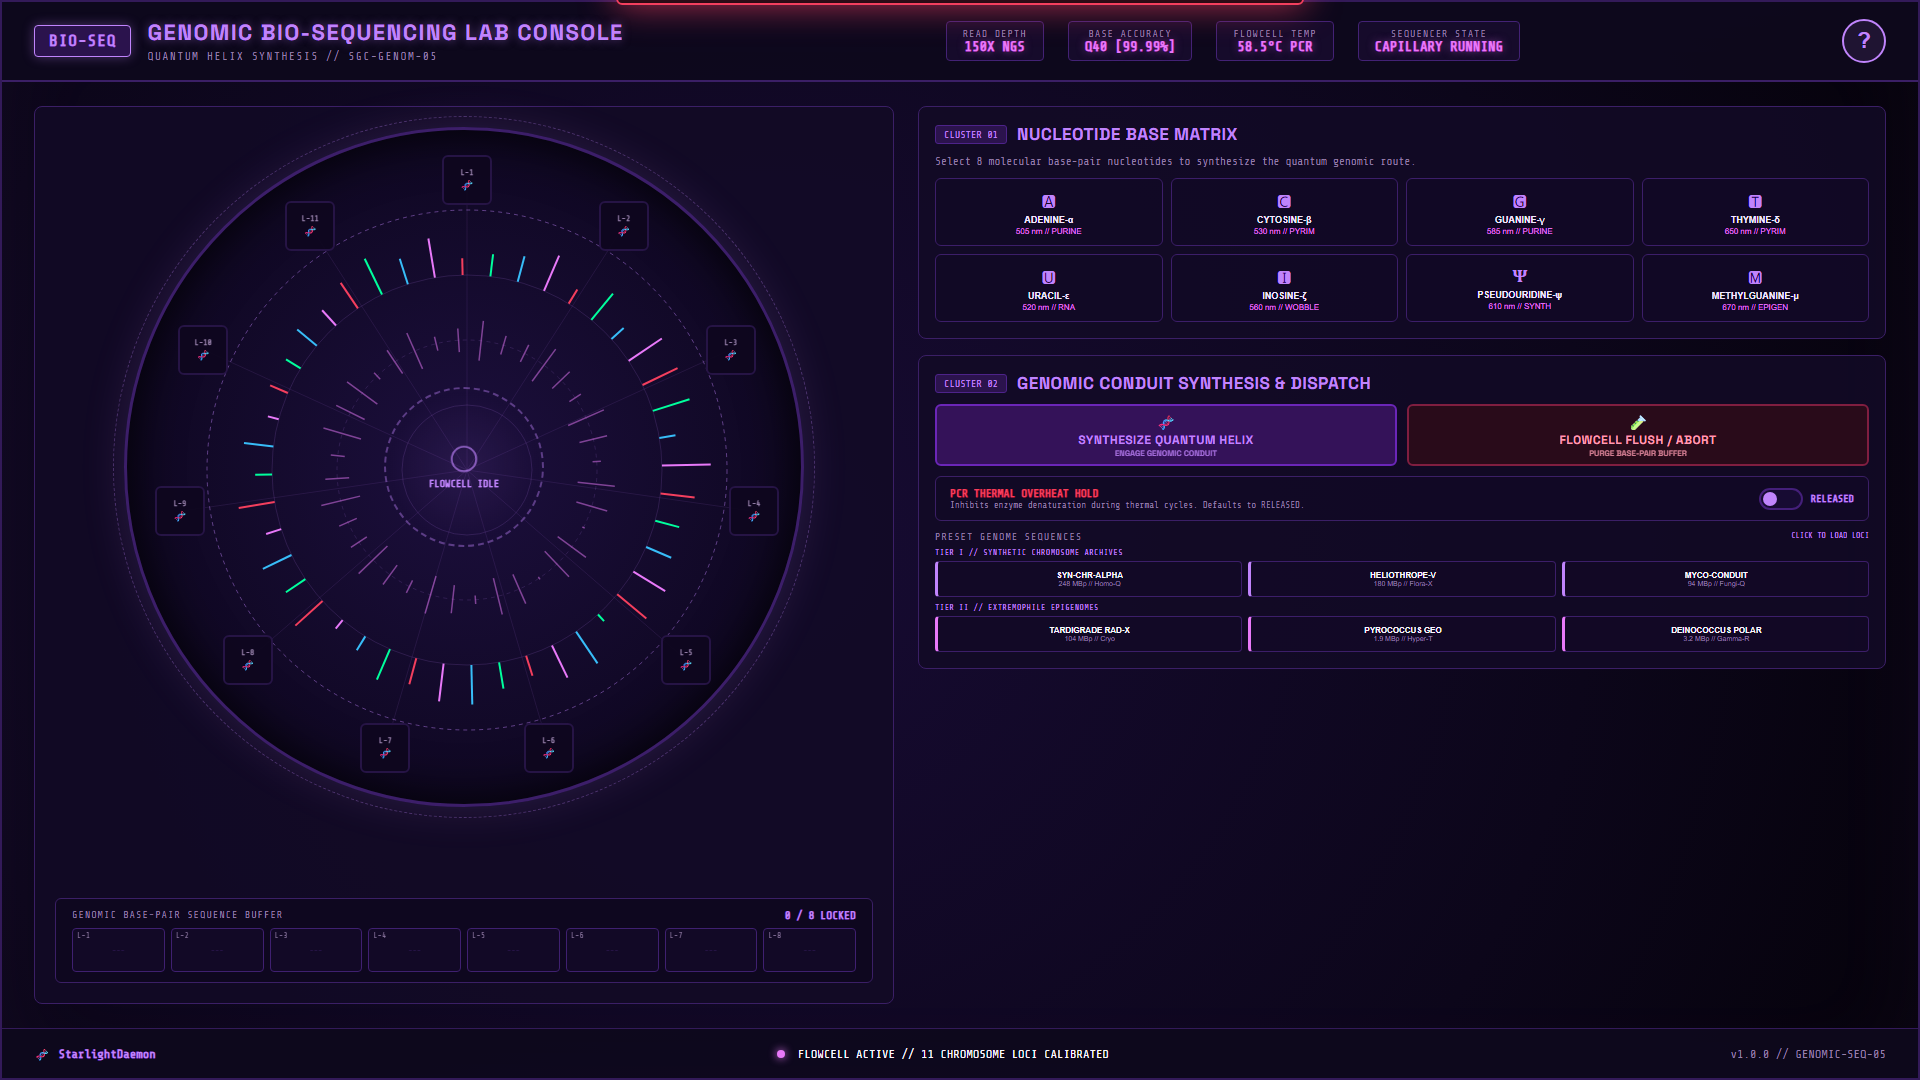
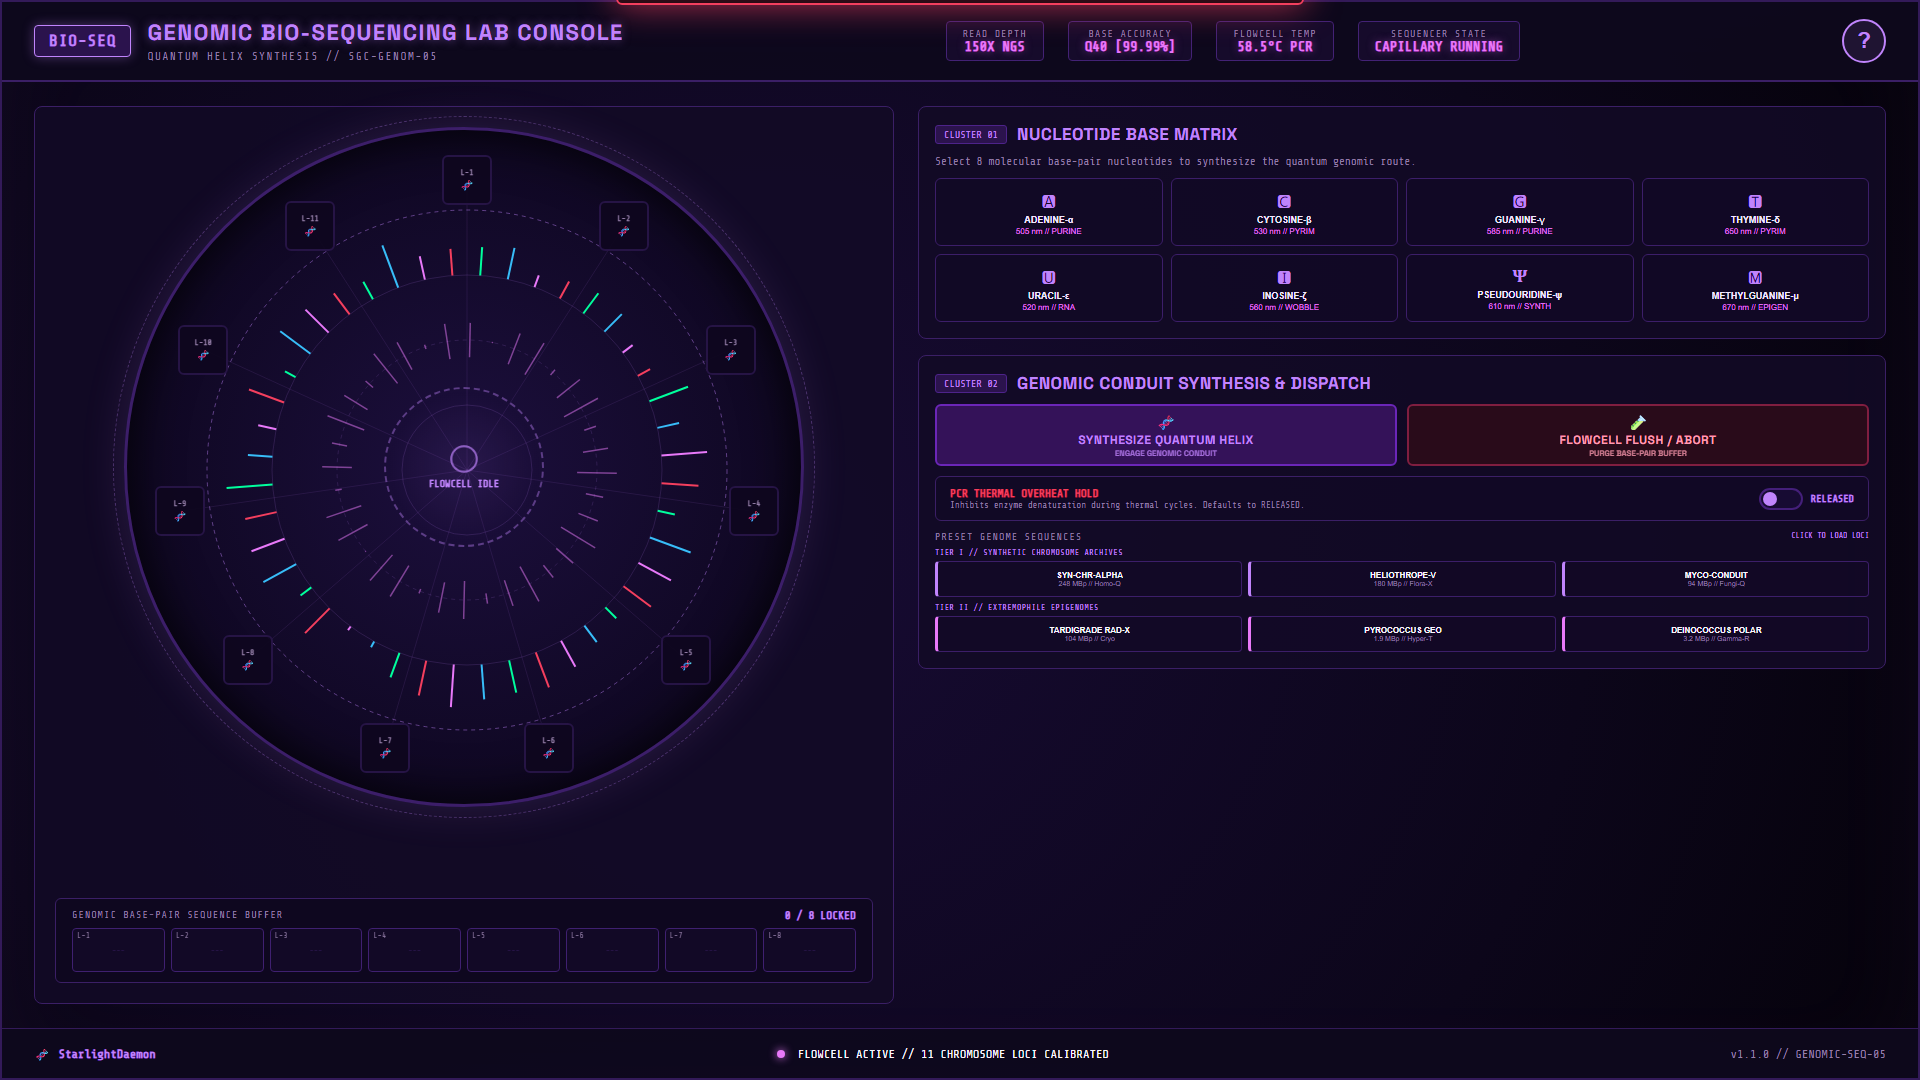
fix(stargate_genomic_sequencer): stage preset quick-dial through per-locus hybridization locks (v1.1.0)
loadPreset previously locked all 8 base glyphs in one synchronous
forEach, jumping straight to PENDING_READY and skipping the per-locus
pipette/fluorescence audio, chevron lock, and SEQUENCING telemetry
manual dialing uses. Presets now replay through lockGlyph (the manual
lock path) at 260ms per locus - a thermocycler running a validated
primer library at machine speed. Replay lands in PENDING_READY without
starting synthesis; FLUSH/ABORT cancels an in-flight replay, and the
thermal hold halts remaining cycles with one interlock alert. Tests:
staged sampling with in-progress screenshots, mid-replay abort test,
re-timed preset check.

diff --git a/stargate_genomic_sequencer/test_build.js b/stargate_genomic_sequencer/test_build.js
@@ -232,7 +232,7 @@ async function runTests() {
     // --- TEST CYCLE 2: PRESET -> NEGATIVE CHECK -> ACTIVATE -> ACTIVE VERIFICATION -> DISENGAGE ---
     console.log('\n--- EXECUTING DIAL-ACTIVATE-DISENGAGE CYCLE 2 ---');
     await hitAndClick('.preset-btn[data-preset="syn-ch-1"]');
-    await sleep(600);
+    await sleep(2600); // thermocycler replay: 8 loci x 260ms cycle cadence
 
     const stateAfterPreset = await cdp.eval(`(() => {
       const counter = document.getElementById('address-counter').textContent;
@@ -272,6 +272,67 @@ async function runTests() {
       return document.getElementById('address-counter').textContent;
     })()`);
     console.log(`[Cycle 2 - After Disengage]: ${stateAfterDisengage2}`);
+
+    // --- TEST STAGED THERMOCYCLER REPLAY (per-locus locks, no instant jump) ---
+    console.log('\n--- TESTING STAGED PRESET REPLAY ---');
+    await hitAndClick('.preset-btn[data-preset="syn-ch-1"]');
+    // hitAndClick sleeps 250ms after the click; sample on an absolute clock
+    const clickT0 = Date.now() - 250;
+
+    const replaySamples = [];
+    for (const off of [400, 950, 1500]) {
+      const rem = clickT0 + off - Date.now();
+      if (rem > 0) await sleep(rem);
+      const s = await cdp.eval(`(() => ({
+        locked: (document.getElementById('address-counter').textContent.match(/^(\\d+)/) || [0,0])[1],
+        teleState: document.getElementById('tele-state').textContent,
+        activateDisabled: document.getElementById('btn-activate').hasAttribute('disabled')
+      }))()`);
+      s.locked = parseInt(s.locked, 10);
+      replaySamples.push(s);
+      console.log(`  t=${Date.now() - clickT0}ms:`, JSON.stringify(s));
+      await cdp.screenshot(path.join(__dirname, `screenshot_replay_t${off}.png`));
+    }
+    const rCounts = replaySamples.map(s => s.locked);
+    const stagedOk = rCounts.every((v, i) => i === 0 || v > rCounts[i - 1]) &&
+      replaySamples.every(s => s.locked > 0 && s.locked < 8 && s.activateDisabled &&
+        !s.teleState.includes('QUANTUM HELIX ACTIVE'));
+    if (!stagedOk) {
+      throw new Error(`FAIL: Preset replay is not visibly staged: ${JSON.stringify(replaySamples)}`);
+    }
+
+    // Completion +1.2s: PENDING, activate enabled, NOT active
+    const toEnd = clickT0 + 2080 + 1200 - Date.now();
+    if (toEnd > 0) await sleep(toEnd);
+    const replayEnd = await cdp.eval(`(() => ({
+      counter: document.getElementById('address-counter').textContent,
+      teleState: document.getElementById('tele-state').textContent,
+      activateDisabled: document.getElementById('btn-activate').hasAttribute('disabled')
+    }))()`);
+    console.log('[Replay End]:', JSON.stringify(replayEnd));
+    if (!replayEnd.counter.includes('8 / 8') || replayEnd.activateDisabled ||
+        replayEnd.teleState.includes('QUANTUM HELIX ACTIVE')) {
+      throw new Error('FAIL: Replay did not land in PENDING_READY without auto-fire.');
+    }
+    console.log('>>> STAGED REPLAY CONFIRMED: per-locus locks, PENDING at end, no auto-fire.');
+
+    // --- TEST DISENGAGE DURING REPLAY ---
+    console.log('\n--- TESTING ABORT DURING PRESET REPLAY ---');
+    await hitAndClick('#btn-disengage');
+    await sleep(200);
+    await hitAndClick('.preset-btn[data-preset="syn-ch-1"]');
+    await sleep(450); // ~2 loci locked (250ms already slept in hitAndClick)
+    const midAbortState = await cdp.eval(`document.getElementById('address-counter').textContent`);
+    console.log(`[Mid-replay before abort]: ${midAbortState}`);
+    await hitAndClick('#btn-disengage');
+    await sleep(2000); // past when remaining cycles would have fired
+    const afterAbortState = await cdp.eval(`document.getElementById('address-counter').textContent`);
+    console.log(`[After mid-replay abort +2s]: ${afterAbortState}`);
+    if (!afterAbortState.includes('0 / 8')) {
+      throw new Error('FAIL: Abort during replay left orphaned cycle timers still locking loci.');
+    }
+    await cdp.screenshot(path.join(__dirname, 'screenshot_mid_replay_abort.png'));
+    console.log('>>> MID-REPLAY ABORT CONFIRMED: no orphaned locks after disengage.');
 
     // --- TEST PCR THERMAL OVERHEAT HOLD ---
     console.log('\n--- TESTING PCR THERMAL OVERHEAT HOLD ---');

diff --git a/stargate_genomic_sequencer/app.js b/stargate_genomic_sequencer/app.js
@@ -462,6 +462,7 @@
 
   // --- DISENGAGE / ABORT TRIGGER ---
   function disengageConduit() {
+    cancelPresetReplay(); // abort any in-flight thermocycler replay
     SoundFX.flushPurge();
 
     state.mode = 'IDLE';
@@ -488,6 +489,19 @@
   }
 
   // --- PRESET QUICK-DIAL LOADER ---
+  // THERMOCYCLER PROGRAM REPLAY: presets anneal a validated primer library
+  // one locus per PCR cycle — the thermocycler runs at machine speed, far
+  // faster than manual pipetting, but every base still passes through the
+  // same lockGlyph hybridization lock (pipette click, fluorescence lock,
+  // locus chevron, telemetry) as a manually dialed glyph. The 8th lock lands
+  // in PENDING_READY; synthesis NEVER starts on its own.
+  let presetReplayTimers = [];
+
+  function cancelPresetReplay() {
+    presetReplayTimers.forEach(t => clearTimeout(t));
+    presetReplayTimers = [];
+  }
+
   function loadPreset(presetKey) {
     if (state.safetyHoldEngaged) {
       triggerInterlockAlert();
@@ -496,12 +510,21 @@
     const preset = PRESETS[presetKey];
     if (!preset) return;
 
-    disengageConduit();
+    disengageConduit(); // also cancels any in-flight replay
 
-    preset.glyphs.forEach(glyphName => {
-      const btn = document.querySelector(`.glyph-btn[data-glyph="${glyphName}"]`);
-      const sym = btn ? btn.dataset.symbol : '🧬';
-      lockGlyph(glyphName, sym);
+    const CYCLE_STEP_MS = 260; // thermocycler cadence: faster than pipetting, one locus per cycle
+    preset.glyphs.forEach((glyphName, i) => {
+      const timer = setTimeout(() => {
+        if (state.safetyHoldEngaged) {
+          cancelPresetReplay();
+          triggerInterlockAlert();
+          return;
+        }
+        const btn = document.querySelector(`.glyph-btn[data-glyph="${glyphName}"]`);
+        const sym = btn ? btn.dataset.symbol : '🧬';
+        lockGlyph(glyphName, sym);
+      }, CYCLE_STEP_MS * (i + 1));
+      presetReplayTimers.push(timer);
     });
   }
 

diff --git a/stargate_genomic_sequencer/index.html b/stargate_genomic_sequencer/index.html
@@ -284,7 +284,7 @@
         <span id="footer-status-text">FLOWCELL ACTIVE // 11 CHROMOSOME LOCI CALIBRATED</span>
       </div>
       <div class="footer-right">
-        <span class="version-tag">v1.0.0 // GENOMIC-SEQ-05</span>
+        <span class="version-tag">v1.1.0 // GENOMIC-SEQ-05</span>
       </div>
     </footer>
   </div>

diff --git a/stargate_genomic_sequencer/CHANGELOG.md b/stargate_genomic_sequencer/CHANGELOG.md
@@ -5,6 +5,19 @@ All notable changes to this project will be documented in this file.
 The format is based on [Keep a Changelog](https://keepachangelog.com/en/1.0.0/),
 and this project adheres to [Semantic Versioning](https://semver.org/spec/v2.0.0.html).
 
+## [1.1.0] - 2026-08-15
+
+**Built by:** Claude Opus (auto-dial staging fix; original build by Gemini 3.6 Flash (high reasoning))
+
+### Fixed
+- **Preset Quick-Dial Instant-Jump Bug**: loading a synthetic-chromosome preset previously hybridized all 8 base glyphs in one synchronous forEach, jumping straight to `PENDING_READY` and bypassing the per-locus pipette click, fluorescence lock, chevron animation, and `SEQUENCING` telemetry progression that manual dialing uses.
+- **Thermocycler Program Replay**: presets now anneal each base through the exact same `lockGlyph` hybridization lock as a manual dial, one locus every 260ms — in-universe, the thermocycler runs a validated primer library at machine speed: far faster than manual pipetting, but every base still requires its own hybridization cycle.
+- Replay lands in the identical `PENDING_READY` state as manual dialing and **never starts synthesis on its own** (asserted at completion +1.2s).
+- `FLUSH FLOWCELL / ABORT` remains fully functional **during** a replay: aborting mid-sequence cancels all pending cycle timers and resets cleanly (new automated test). Engaging the Thermal Overheat Hold mid-replay halts the remaining cycles with a single interlock alert.
+
+### Changed
+- Verification suite: staged-replay sampling with in-progress screenshots, mid-replay abort test; preset assertion re-timed for the ~2.1s replay.
+
 ## [1.0.1] - 2026-08-13
 
 ### Operator Evaluation & Status Note
